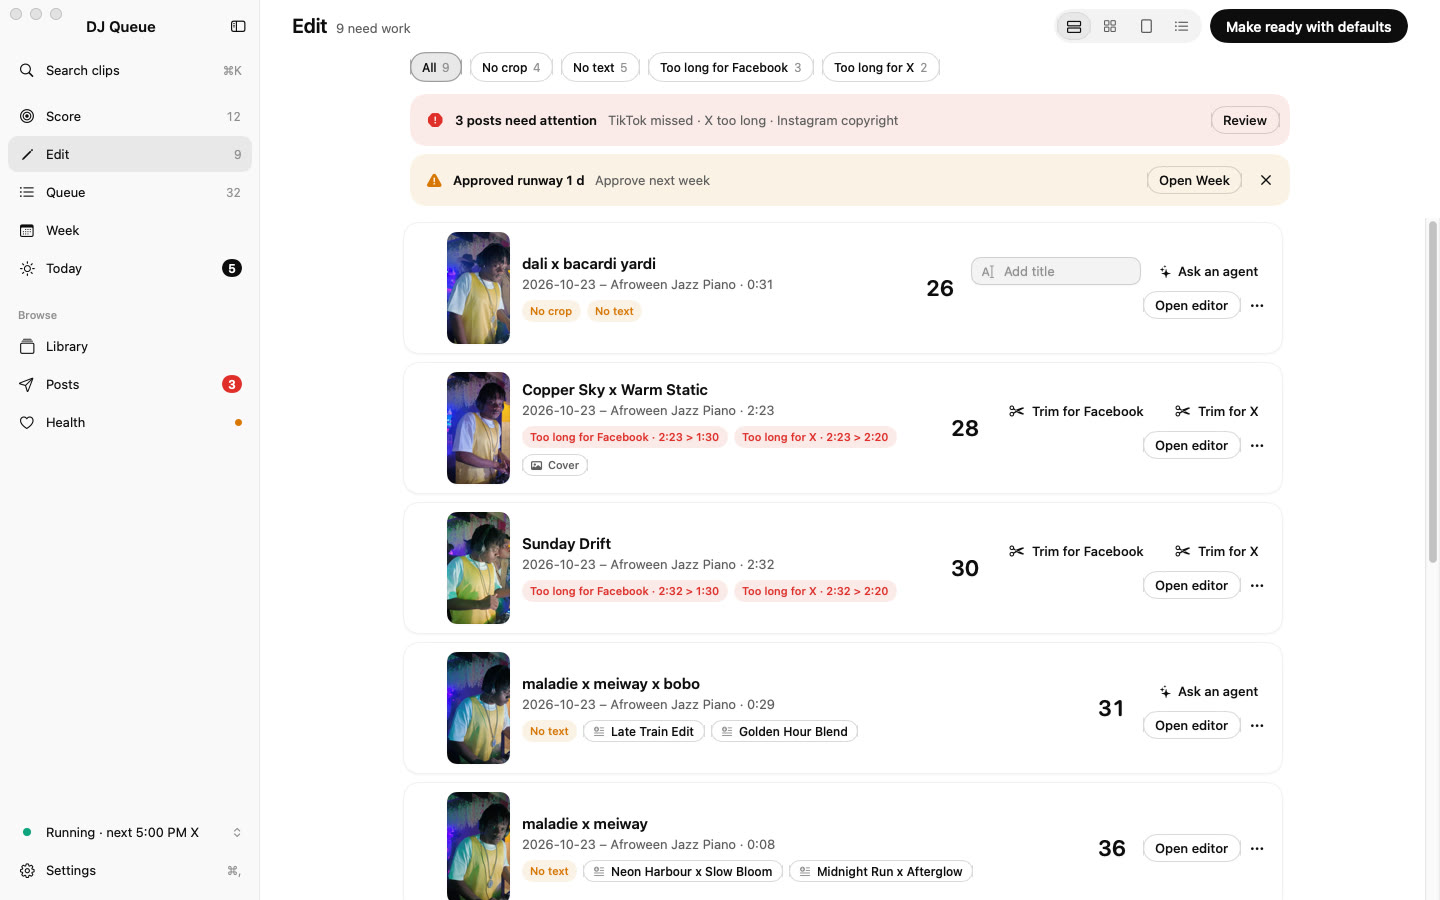
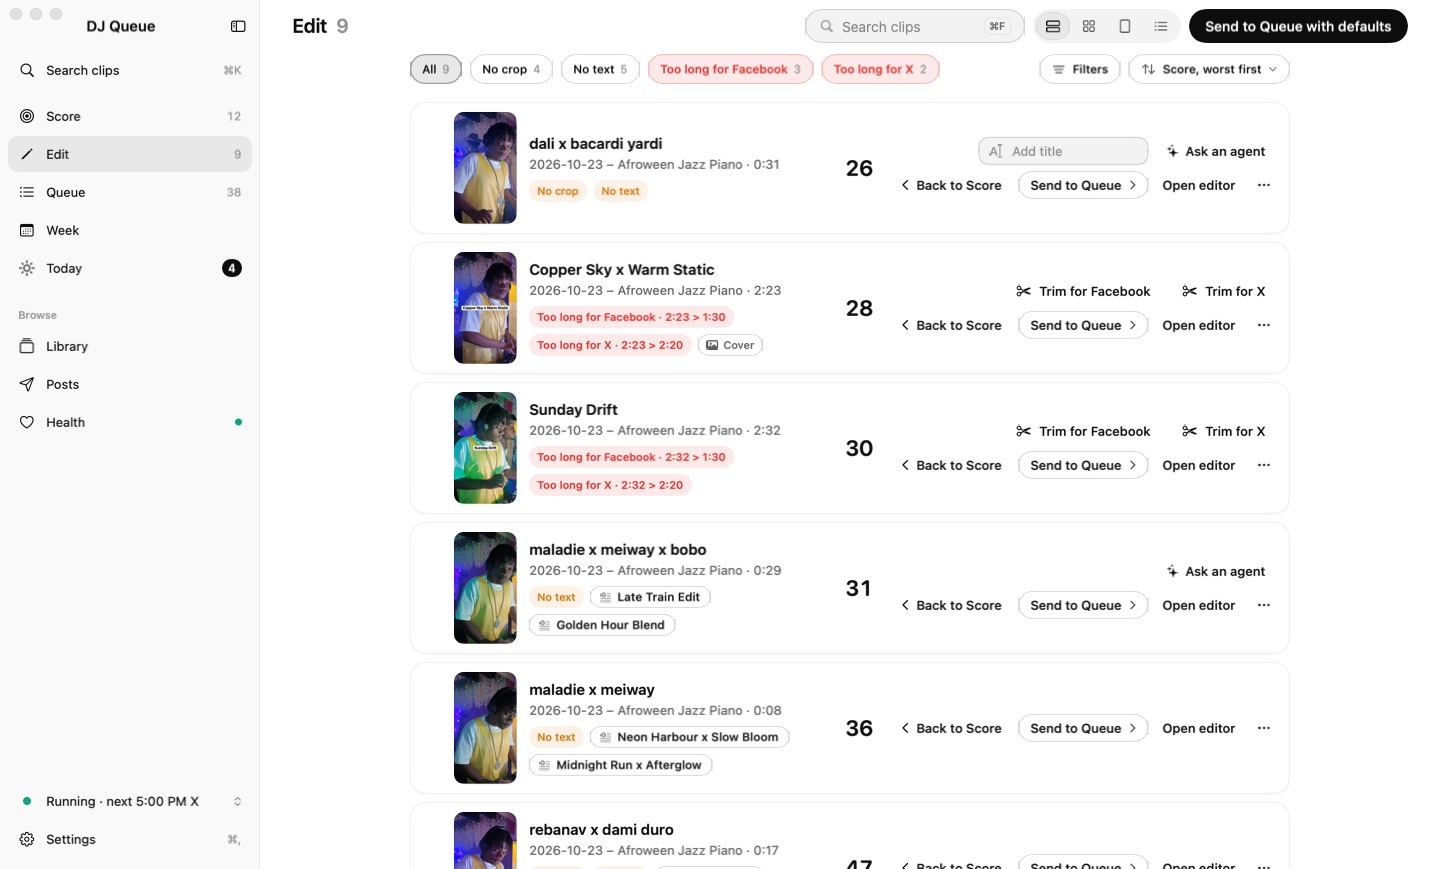
Docs: v0.5.0 — round 4 session B decisions, README screenshots and wording, architecture notes

diff --git a/DECISIONS-R4.md b/DECISIONS-R4.md
@@ -8,3 +8,42 @@
 5. Captions "Add template" / "Add set" stay without undo. Why: harmless additions that can be deleted (with confirmation).
 6. Splitting the editor session first flushes the on-screen editor's debounced save (review r4 L6), so an edit made just before an action lands in the right entry. This last small fix was checked by tests, not by another review round. Why: it only adds a flush before a wait that was already there.
 7. A toast Undo pressed after further editor edits stays "skipped · changed since" (review r4 L7). Why: it's conservative (nothing is lost), and it behaved this way before this release.
+
+## Session B — stage = readiness, one list header, Filters popover, edited previews, v0.5.0 (2026-11-02)
+
+### Stage = readiness (S1)
+1. One wording source, `DJQCore/StageWording.swift`, names stages, neighbours and Edit reasons for the app and `djq`. Why: the app and djq had their own copies of the same strings.
+2. The stage control names the real neighbour. Queue back is "Back to Edit" (was "Remove from queue"; it still holds the clip in Edit and removes unposted days), Edit forward is "Send to Queue", Scheduled back is "Back to Queue". Why: Eric asked for the neighbour's name.
+3. The "Send to queue" label on a Queue card had one root cause: the Queue list included every clip on an upcoming draft-week day, even one that had fallen back to Edit. The new `queueClips` drops Score/Edit-stage clips, and the Queue screen, sidebar count and snapshots use it. Why: draft weeks don't make a clip Scheduled.
+4. Display names: `needs_edit` "In Edit", `ready` "In Queue", `planned` "Scheduled". Render state `rendered` reads "Rendered" (was "Ready"). Stored values and JSON keys are unchanged. Why: readiness is the stage, and "Rendered" is the word the tooltip pass already uses for render files.
+5. No schema change. Edit reason chips come from Validation. Why: a stored reason could go stale.
+6. Auto-move: `Revalidation` re-derives every short, included clip in Edit, Queue or missing-file state. It runs as the tick step "stages", after every djq write (`Revalidation.afterWrite`), inside Settings batches (states only), and after New clip defaults saves and template deletes. Why: limit changes, cleared crops and missing files now move a clip out of the Queue in every path.
+7. A clip that becomes valid again goes back to the Queue automatically, unless it was sent back by hand. Why: Queue = ready, and the hold is Eric's choice.
+8. A scored clip whose file is missing sits in Edit with "File missing" and a Relink fix, and both stage moves are blocked. Unscored + missing has no stage (Library only). Why: S1 wants it visible with the reason, and you can't score a clip you can't watch.
+9. Scheduled (approved week) and pinned clips that become invalid stay put and show the problem. A pinned clip logs "Can't post on <day>: <reasons>". Why: pinned never moves, and a silent unschedule would surprise.
+10. An unpinned draft-week day (from today on, no posts) whose clip leaves the Queue is dropped and refilled from the queue order. `approveWeek` re-checks states first and runs in one transaction. Why: draft weeks are planner territory, and approval must never schedule a clip that isn't ready.
+11. Draft-day refills happen outside the undo journal, and each tick takes the write lock for a short, mostly-read pass. Why: accepted at current scale (about 60 short clips, ≈0.1 s).
+12. djq output uses stage names: `videos --json` adds `stage` and `reasons[]`, there's a new `--stage` filter, and `stage --json` adds titles and blockers. Existing keys are unchanged. Why: same words as the app, and JSON stays compatible.
+
+### One list header + Filters popover (S3, S4)
+13. The header has two rows plus an applied row. Row 1: title + count · search · view modes · primary. Row 2: page chips · Filters · sort. Row 3: applied chips + Clear all. Why: it keeps the S3 order without overflowing 880 pt columns.
+14. The count reads "N" or "N of M" instead of "41 ready". Why: no readiness words.
+15. Page chips: Edit shows missing reasons with counts (blocks tinted danger). Queue shows "Has a day" / "No day yet", meaning a draft or approved week. Posts shows Problems / Scheduled / Posted, with Platform as a Filters section. Score has a chip per session, and Library is as before, plus a Stage filter. Why: "Scheduled" means an approved week everywhere else, so the Queue chips got their own words.
+16. Filters options are chips per section. Nothing is highlighted until applied, and the trigger only adds a count. Why: S4 says unapplied filters never look highlighted.
+17. Clear all clears filters and search. The page chip and sort stay. Why: those are the page's view, not filters.
+18. Search, page chip, filters and sort persist per page in UserDefaults (`djq.list.<page>`). A remembered session that's gone reads "Removed session". Why: it's a UI preference. There's no unit test, because the type lives in the app target, which the test target can't import.
+19. ⌘F is a hidden window shortcut in the screen scaffold, so the system Edit menu stays intact. On Week it opens Next up and focuses its search. Why: there's no find bar in DJ Queue.
+20. The editor's "Ready" badge reads "Nothing to fix". The runway reads "21 d in Queue".
+
+### Edited previews (S6)
+21. The preview stamp hashes edits.updated_at, the versions' updated_at, the defaults generation and the clip-row fields that feed defaults (title, kind, markers, file). Why: any change that alters the posted clip must refresh the lists.
+22. One editor-exit path, in the `editor` didSet, covers Done, sidebar, ⌘-number, ⌘K and stage moves. Leaving by sidebar doesn't mark a Fix post fixed. Why: Done keeps its own meaning.
+23. Video = the existing proxy, with the text overlay drawn as a layer only in the text window. Covers bake the text in when cover-includes-text is on. Why: the editor's own method, with no re-encode on text edits.
+24. The overlay cache is a cost-capped LRU (64 MB) in DJQCore, keyed by text, not clip. Evicted overlays redraw only when a preview starts playing (≤4). Why: NSCache can't be tested for "under the cap", and grids must never thrash.
+25. A proxy request made while the same clip is encoding queues a follow-up job, and a proxy whose name doesn't match the current edit is dropped. Why: the old crop must never loop.
+26. The renderer and the lists share `PreviewKeys.textWindow` and `Media.coverComposite`. Render output is unchanged (pixel check 0.0076). Why: one geometry, no drift.
+27. Quick look and the Library dialog open on Edited with an Original toggle. Quick look plays the current render file when one exists. Why: Eric wants to see what will post.
+28. Cover JPGs are named per version and text, and older covers of the same clip are pruned. Why: thumbs/ mustn't grow with every text edit.
+
+### Process
+29. Commit d09447a ("wip: phase C wiring") went to main without the Co-Authored-By trailer. Why: history isn't rewritten, and the next commit carries the work properly.

diff --git a/README.md b/README.md
@@ -11,10 +11,10 @@ Built for my own use as DJ Lovd (TikTok, Instagram, Facebook, YouTube Shorts, Th
 The app follows a clip's life — **Score → Edit → Queue → Week → Today** — with one job and one primary action per screen, on a calm, rounded design system modelled on ChatGPT's look and shadcn/ui component anatomy.
 
 - **Intake** — watches my session folders; every clip exported from my CapCut markers shows up automatically. Renamed files are re-found by content fingerprint; deleted files are flagged, never lost.
-- **Score & queue** — I score each clip 0–100 on a large autoplaying preview; the queue orders the backlog worst → best (to warm up new accounts) or best → worst. Every list has Cards / Grid / Single / List views with muted autoplay from small background-generated proxies.
+- **Score & queue** — I score each clip 0–100 on a large autoplaying preview; the queue orders the backlog worst → best (to warm up new accounts) or best → worst. Every list has Cards / Grid / Single / List views and one shared header (search, view modes, page chips, one Filters popover with removable chips, sort; remembered per page, ⌘F to search). Lists show each clip as it will post: small background-generated proxies carry the crop and trim, the text overlay is drawn live during its window, and covers include the text.
 - **Vertical editor** — crop a 4K 16:9 frame to 9:16, trim starting on my original markers (with grace to extend), overlay text, captions with per-platform limits, a cover frame, versions for reposts, multi-platform safe zones and realistic phone previews of each platform's UI with the real caption and handle.
 - **No intelligence in the app, by design** — the app is a UI over scripts. Song names and titles come from metadata my agents write (`title_suggestions` in the manifest) and show up as chips; when a name is ambiguous, *Ask an agent* copies a ready-made prompt. Outside agents read and change everything through the `djq` CLI (JSON in/out), documented as a Claude skill.
-- **Stage moves** — any clip can move one stage back or forward from wherever it is (e.g. *Remove from queue* sends it back to Edit; a scheduled clip can go back to the Queue), with the reason shown when a move isn't allowed (nothing already posted is ever pulled back) and one-step undo.
+- **Stage = readiness** — there are no Ready / Needs edit labels: a clip in Edit isn't ready, the Queue only ever holds ready clips, and a queued clip that becomes invalid (crop cleared, a platform limit changed, file missing) moves back to Edit by itself with a chip saying why. Any clip can move one stage back or forward from wherever it is (e.g. *Back to Edit* from the Queue; a scheduled clip can go back to the Queue), with the reason shown when a move isn't allowed (nothing already posted is ever pulled back) and one-step undo.
 - **Every control explains itself** — every icon-only button and badge has a tooltip (label, shortcut, and why it's disabled), enforced by a lint in the test suite; every data-changing click has Undo or asks first, and ⌘Z always undoes the most recent action (a whole editor session counts as one).
 - **Defaults + bulk editing** — new-clip defaults for frame, trim, text, cover, captions and platforms (clips store only overrides, so changing a default updates every untouched clip); bulk actions with a confirmation sheet showing exactly what changes and one-step undo.
 - **Weekly approval** — the app proposes the next 7 days; I drag, swap, pin and approve. Only approved weeks ever post.
@@ -119,7 +119,7 @@ design/                 inventory, design specs v1/v2, design system, decision l
 
 ## Status
 
-Phase 1 (manual publishing) is in daily use (v0.4.0), redesigned in round 2 and refined in rounds 3 and 4 (tooltips and undo everywhere). Next: one shared list header with a Filters popover, auto-update on every commit to main, then a Postiz publisher so posts go out with the Mac off, analytics and opt-in reposting of underperforming posts.
+Phase 1 (manual publishing) is in daily use (v0.5.0), redesigned in round 2 and refined in rounds 3 and 4 (tooltips and undo everywhere; stage = readiness, one list header with a Filters popover, lists that show the edited clip). Next: auto-update on every commit to main, then a Postiz publisher so posts go out with the Mac off, analytics and opt-in reposting of underperforming posts.
 
 ## License
 

diff --git a/ARCHITECTURE.md b/ARCHITECTURE.md
@@ -127,3 +127,10 @@ CLI `djq`: `doctor [--json]`, `intake`, `status`, `queue`, `week [--propose|--ap
 ### UI agents (`Sources/DJQueueApp/`)
 
 SwiftUI app per `design/DESIGN.md`. Talks only to the APIs above and `Store`. Runs `Engine` in-process (background queue). Implements `Notifier` with `UNUserNotificationCenter` (actions Post now / Shift plan / Skip / Mark posted). `scripts/build-app.sh` builds release, assembles `DJ Queue.app` (Info.plist: `LSUIElement` true, bundle id `com.djlovd.queue`, min macOS 15), ad-hoc signs, installs to `~/Applications`.
+
+## Round 4 additions (v0.5.0)
+
+- **Stages are readiness** (`DJQCore/StageWording.swift`): one source for stage names, the stage control's neighbour labels ("Back to Edit", "Send to Queue", "Back to Queue"), blockers and the Edit reason chips (`ValidationIssue.chipText` / `chipOrder` / `isBlock`). Stored states (`needs_edit`, `ready`, …) are unchanged; only display names changed.
+- **Revalidation** (`DJQCore/Engine/Revalidation.swift`): re-derives every short, included clip in Edit / Queue / missing-file state. Runs as the tick step `stages`, after every djq write (`Revalidation.afterWrite`), inside Settings batches (states only) and after New clip defaults saves. An invalid Queue clip lands in Edit with a "Moved to Edit: <reasons>" event; Scheduled and pinned clips stay put and show the problem. Unpinned draft-week days whose clip left the Queue are refilled; `approveWeek` re-checks first, in one transaction.
+- **Edited previews** (`DJQCore/Render/PreviewStamp.swift`, `App/AppModel+Previews.swift`): one preview stamp per clip (+ version) from edits, versions, the defaults generation and the clip-row fields. `previewChanged(_:)` is the single invalidation entry (editor exit, refresh, undo). Lists play the 540-px proxy (crop/aspect/trim) with the `TextOverlay` image drawn as a layer during `PreviewKeys.textWindow`; covers composite the text via `Media.coverComposite` (shared with the renderer). Overlays live in a 64 MB cost-capped LRU (`CostCappedCache`). A proxy request for a running encode queues a follow-up job, so a stale crop never lands.
+- **List header** (`DesignSystem/DSListHeader.swift`, `Shared/ClipListFilters.swift`, `Shared/ListPrefs.swift`): one header on Score, Edit, Queue, Library, Posts and Week's Next up drawer, with page chips, one Filters popover, applied chips + Clear all and sort, persisted per page in UserDefaults (`djq.list.<page>`). ⌘F focuses the page's search.
